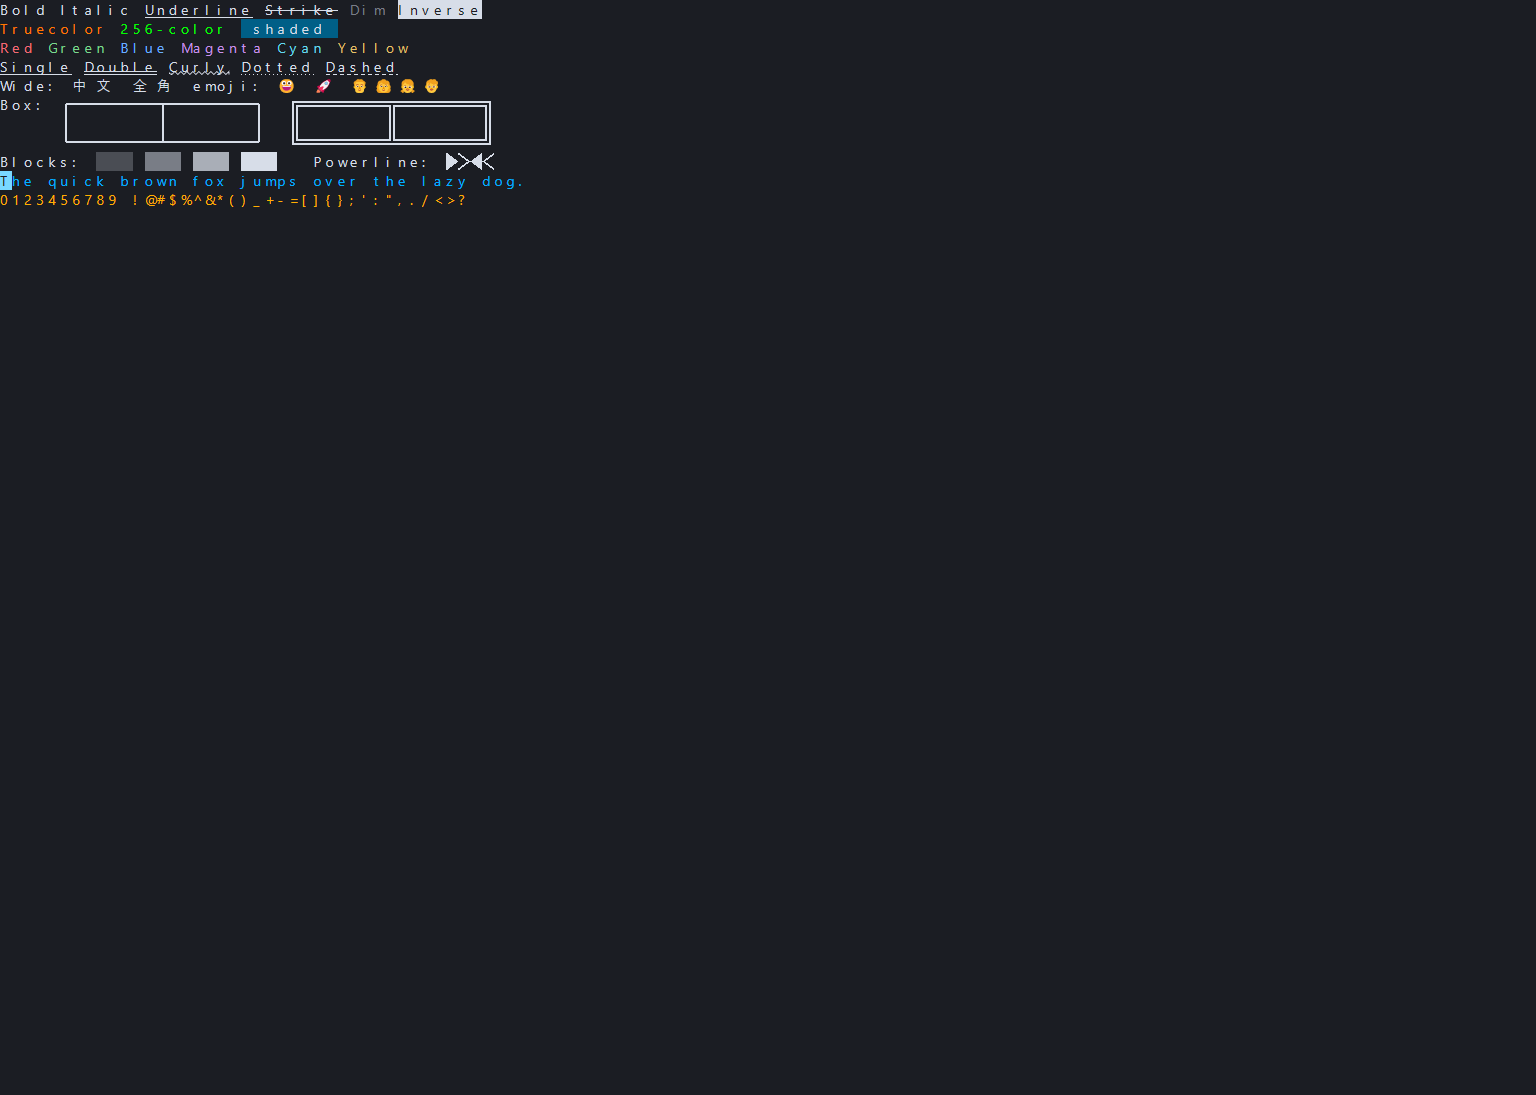
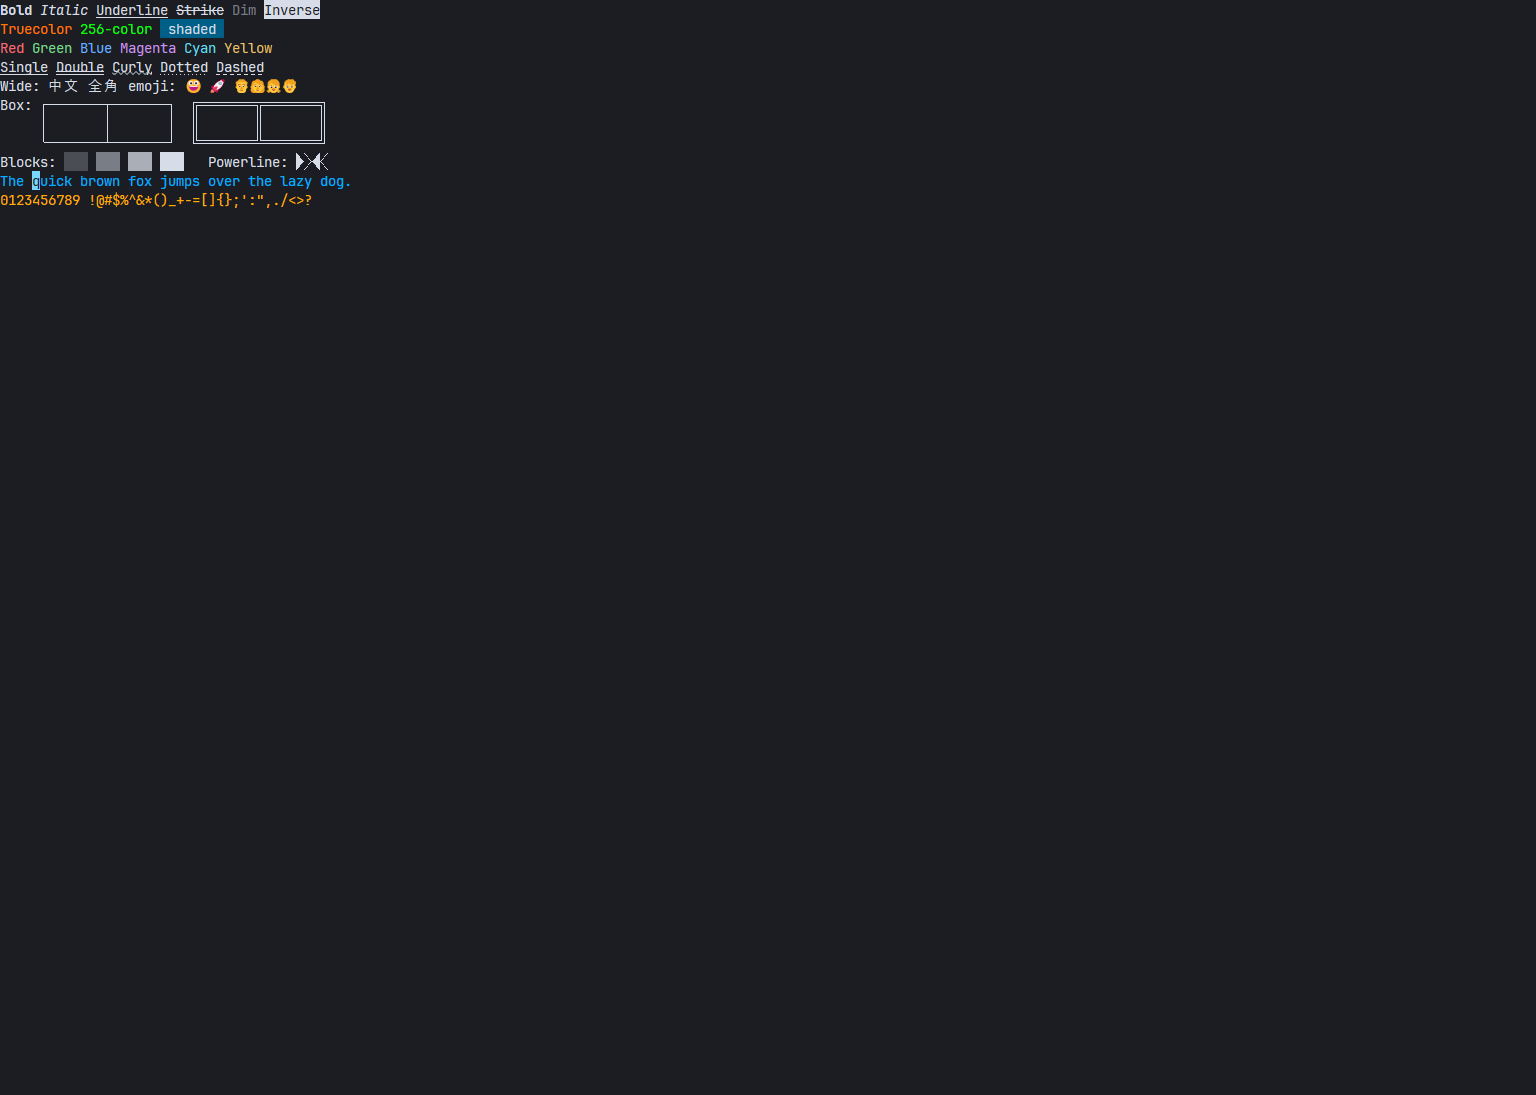
:camera_flash: park the screenshot cursor off column 0 and regenerate the image with JetBrains Mono on 8px cells

Changed region(s): [[0.0, 0.0, 0.3125, 0.1863]]

diff --git a/crates/tterm-gpui/examples/terminal_view.rs b/crates/tterm-gpui/examples/terminal_view.rs
@@ -70,7 +70,9 @@ fn screenshot_bytes() -> Vec<u8> {
     bytes
         .extend_from_slice(b"\x1b[38;5;39mThe quick brown fox jumps over the lazy dog.\x1b[0m\r\n");
     bytes.extend_from_slice(b"\x1b[38;5;214m0123456789 !@#$%^&*()_+-=[]{};':\",./<>?\x1b[0m\r\n");
-    bytes.extend_from_slice(b"\x1b[10;1H\x1b[?25h");
+    // Park the cursor on the "q" of "quick", away from column 0, so the image
+    // shows that the block cursor lands on its own cell.
+    bytes.extend_from_slice(b"\x1b[10;5H\x1b[?25h");
     bytes
 }
 
